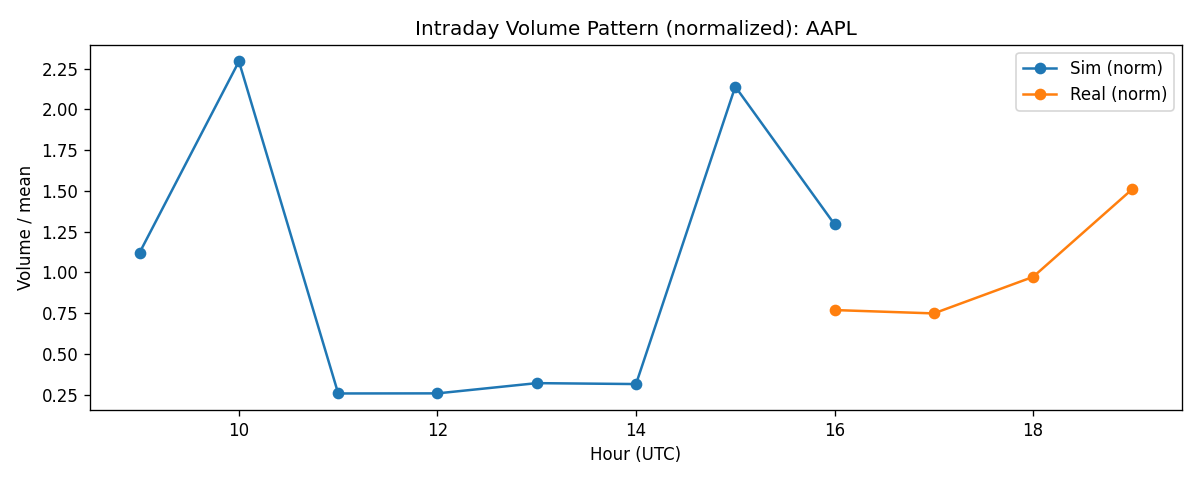
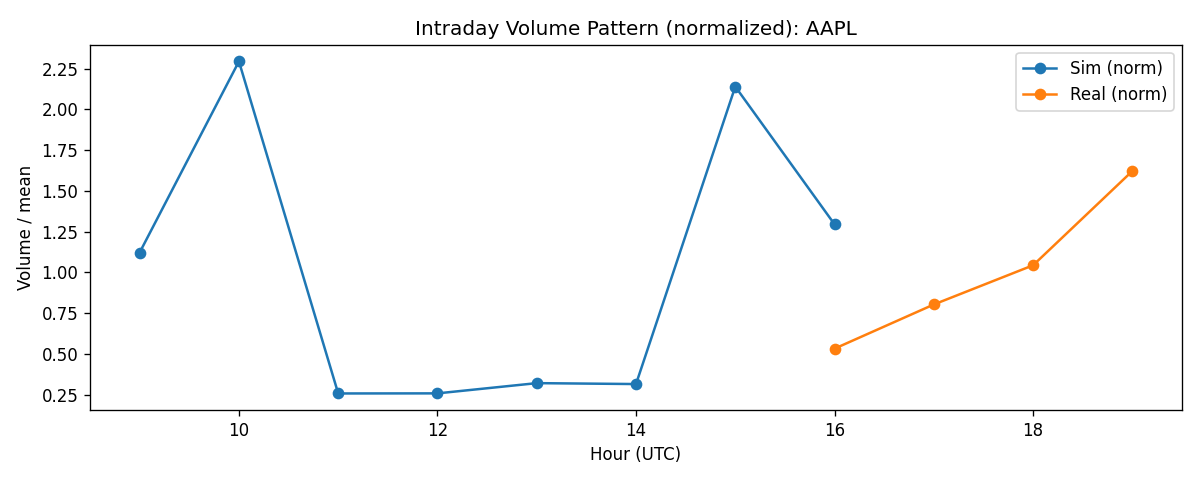
Add market impact, spread, order sign, and intraday volatility plots

diff --git a/src/validation_viz.py b/src/validation_viz.py
@@ -84,6 +84,125 @@ def plot_price_timeseries(sim_snap: pd.DataFrame, real_ohlcv: pd.DataFrame, out:
     plt.close(fig)
 
 
+def plot_spread_distribution(sim_snap: pd.DataFrame, out: Path, symbol: str) -> None:
+    if sim_snap.empty:
+        return
+    df = sim_snap.copy()
+    # prefer relative spread in bps if available
+    if 'relative_spread_bps' in df.columns:
+        x = df['relative_spread_bps'].dropna()
+        label = 'Relative Spread (bps)'
+    elif {'best_bid', 'best_ask'}.issubset(df.columns):
+        mid = (df['best_bid'] + df['best_ask']) / 2.0
+        x = ((df['best_ask'] - df['best_bid']) / mid * 10000).replace([np.inf, -np.inf], np.nan).dropna()
+        label = 'Relative Spread (bps)'
+    else:
+        return
+    fig, ax = plt.subplots(figsize=(8, 4))
+    ax.hist(x, bins=50, alpha=0.85)
+    ax.set_title(f'Spread Distribution: {symbol}')
+    ax.set_xlabel(label)
+    ax.set_ylabel('Frequency')
+    ax.set_yscale('log')
+    fig.tight_layout()
+    fig.savefig(out / f"spread_distribution_{symbol}.png", dpi=120)
+    plt.close(fig)
+
+
+def plot_order_sign_acf(sim_trades: pd.DataFrame, out: Path, symbol: str) -> None:
+    if sim_trades.empty:
+        return
+    tr = sim_trades.copy()
+    tr['timestamp'] = pd.to_datetime(tr['timestamp'], utc=True, errors='coerce')
+    tr = tr.dropna(subset=['timestamp'])
+    # derive sign: +1 for buy aggressor, -1 for sell
+    if 'aggressor_side' in tr.columns:
+        tr['sign'] = tr['aggressor_side'].map({'BUY': 1, 'SELL': -1}).fillna(0)
+    elif 'side' in tr.columns:
+        tr['sign'] = tr['side'].map({'BUY': 1, 'SELL': -1}).fillna(0)
+    else:
+        return
+    sign = tr.sort_values('timestamp')['sign']
+    # simple ACF of order signs (first 50 lags)
+    lags = 50
+    s = sign.values.astype(float)
+    res = []
+    for k in range(1, lags + 1):
+        if len(s) > k:
+            res.append(np.corrcoef(s[:-k], s[k:])[0, 1])
+        else:
+            res.append(np.nan)
+    fig, ax = plt.subplots(figsize=(10, 4))
+    ax.bar(range(1, lags + 1), res)
+    ax.set_title(f'Order Sign Autocorrelation: {symbol}')
+    ax.set_xlabel('Lag')
+    ax.set_ylabel('ACF')
+    fig.tight_layout()
+    fig.savefig(out / f"order_sign_acf_{symbol}.png", dpi=120)
+    plt.close(fig)
+
+
+def plot_market_impact_curve(sim_trades: pd.DataFrame, out: Path, symbol: str) -> None:
+    if sim_trades.empty:
+        return
+    tr = sim_trades.copy()
+    # bucket by trade size (quantity)
+    bins = [0, 100, 500, 1000, 5000, np.inf]
+    labels = ['<100', '100-500', '500-1k', '1k-5k', '>5k']
+    tr['size_bucket'] = pd.cut(tr['quantity'].astype(float), bins=bins, labels=labels)
+    # estimate temporary impact proxy: price move vs previous trade mid
+    tr = tr.sort_values('timestamp')
+    if 'price' not in tr.columns:
+        return
+    tr['prev_price'] = tr['price'].shift(1)
+    tr['impact_bps'] = ((tr['price'] - tr['prev_price']) / tr['prev_price'] * 10000).replace([np.inf, -np.inf], np.nan)
+    impact = tr.groupby('size_bucket')['impact_bps'].median().dropna()
+    fig, ax = plt.subplots(figsize=(8, 4))
+    impact.plot(kind='bar', ax=ax)
+    ax.set_title(f'Market Impact vs Trade Size: {symbol}')
+    ax.set_xlabel('Size bucket (shares)')
+    ax.set_ylabel('Median impact (bps)')
+    fig.tight_layout()
+    fig.savefig(out / f"market_impact_curve_{symbol}.png", dpi=120)
+    plt.close(fig)
+
+
+def plot_intraday_volatility(sim_snap: pd.DataFrame, real_ohlcv: pd.DataFrame, out: Path, symbol: str) -> None:
+    if sim_snap.empty or real_ohlcv.empty:
+        return
+    sim = sim_snap.copy()
+    sim['timestamp'] = pd.to_datetime(sim['timestamp'], utc=True, errors='coerce')
+    sim = sim.dropna(subset=['timestamp'])
+    if 'mid_price' in sim.columns:
+        s = sim['mid_price'].astype(float)
+    else:
+        s = ((sim.get('best_bid') + sim.get('best_ask')) / 2.0).astype(float)
+    sim_ret = np.log(s).diff().abs()
+    sim['hour'] = sim['timestamp'].dt.hour
+    sim_vol = sim.join(sim_ret.rename('abs_ret'))[['hour', 'abs_ret']].groupby('hour')['abs_ret'].mean()
+    sim_vol = sim_vol / sim_vol.mean() if sim_vol.mean() else sim_vol
+
+    ro = real_ohlcv.copy()
+    ro['timestamp'] = pd.to_datetime(ro['timestamp'], utc=True, errors='coerce')
+    ro = ro.dropna(subset=['timestamp'])
+    rr = np.log(ro['close'].astype(float)).diff().abs()
+    ro['hour'] = ro['timestamp'].dt.hour
+    real_vol = ro.join(rr.rename('abs_ret'))[['hour', 'abs_ret']].groupby('hour')['abs_ret'].mean()
+    real_vol = real_vol / real_vol.mean() if real_vol.mean() else real_vol
+
+    hours = sorted(set(sim_vol.index).union(real_vol.index))
+    fig, ax = plt.subplots(figsize=(10, 4))
+    ax.plot(hours, [sim_vol.get(h, np.nan) for h in hours], label='Sim vol (norm)', marker='o')
+    ax.plot(hours, [real_vol.get(h, np.nan) for h in hours], label='Real vol (norm)', marker='o')
+    ax.set_title(f"Intraday Volatility U-shape (normalized): {symbol}")
+    ax.set_xlabel('Hour (UTC)')
+    ax.set_ylabel('Abs return / mean')
+    ax.legend()
+    fig.tight_layout()
+    fig.savefig(out / f"intraday_volatility_{symbol}.png", dpi=120)
+    plt.close(fig)
+
+
 def plot_return_distributions(sim_snap: pd.DataFrame, real_ohlcv: pd.DataFrame, out: Path, symbol: str) -> None:
     if sim_snap.empty or real_ohlcv.empty:
         return
@@ -200,6 +319,11 @@ def generate_plots(db_path: str, symbol: str, start: datetime, end: datetime, ou
     plot_return_distributions(frames['snapshots'], real, out, symbol)
     plot_autocorrelations(frames['snapshots'], out, symbol)
     plot_intraday_volume(frames['trades'], real, out, symbol)
+    # Additional plots inspired by ABIDES papers
+    plot_spread_distribution(frames['snapshots'], out, symbol)
+    plot_order_sign_acf(frames['trades'], out, symbol)
+    plot_market_impact_curve(frames['trades'], out, symbol)
+    plot_intraday_volatility(frames['snapshots'], real, out, symbol)
     return {"sim": frames, "real": real}
 
 
